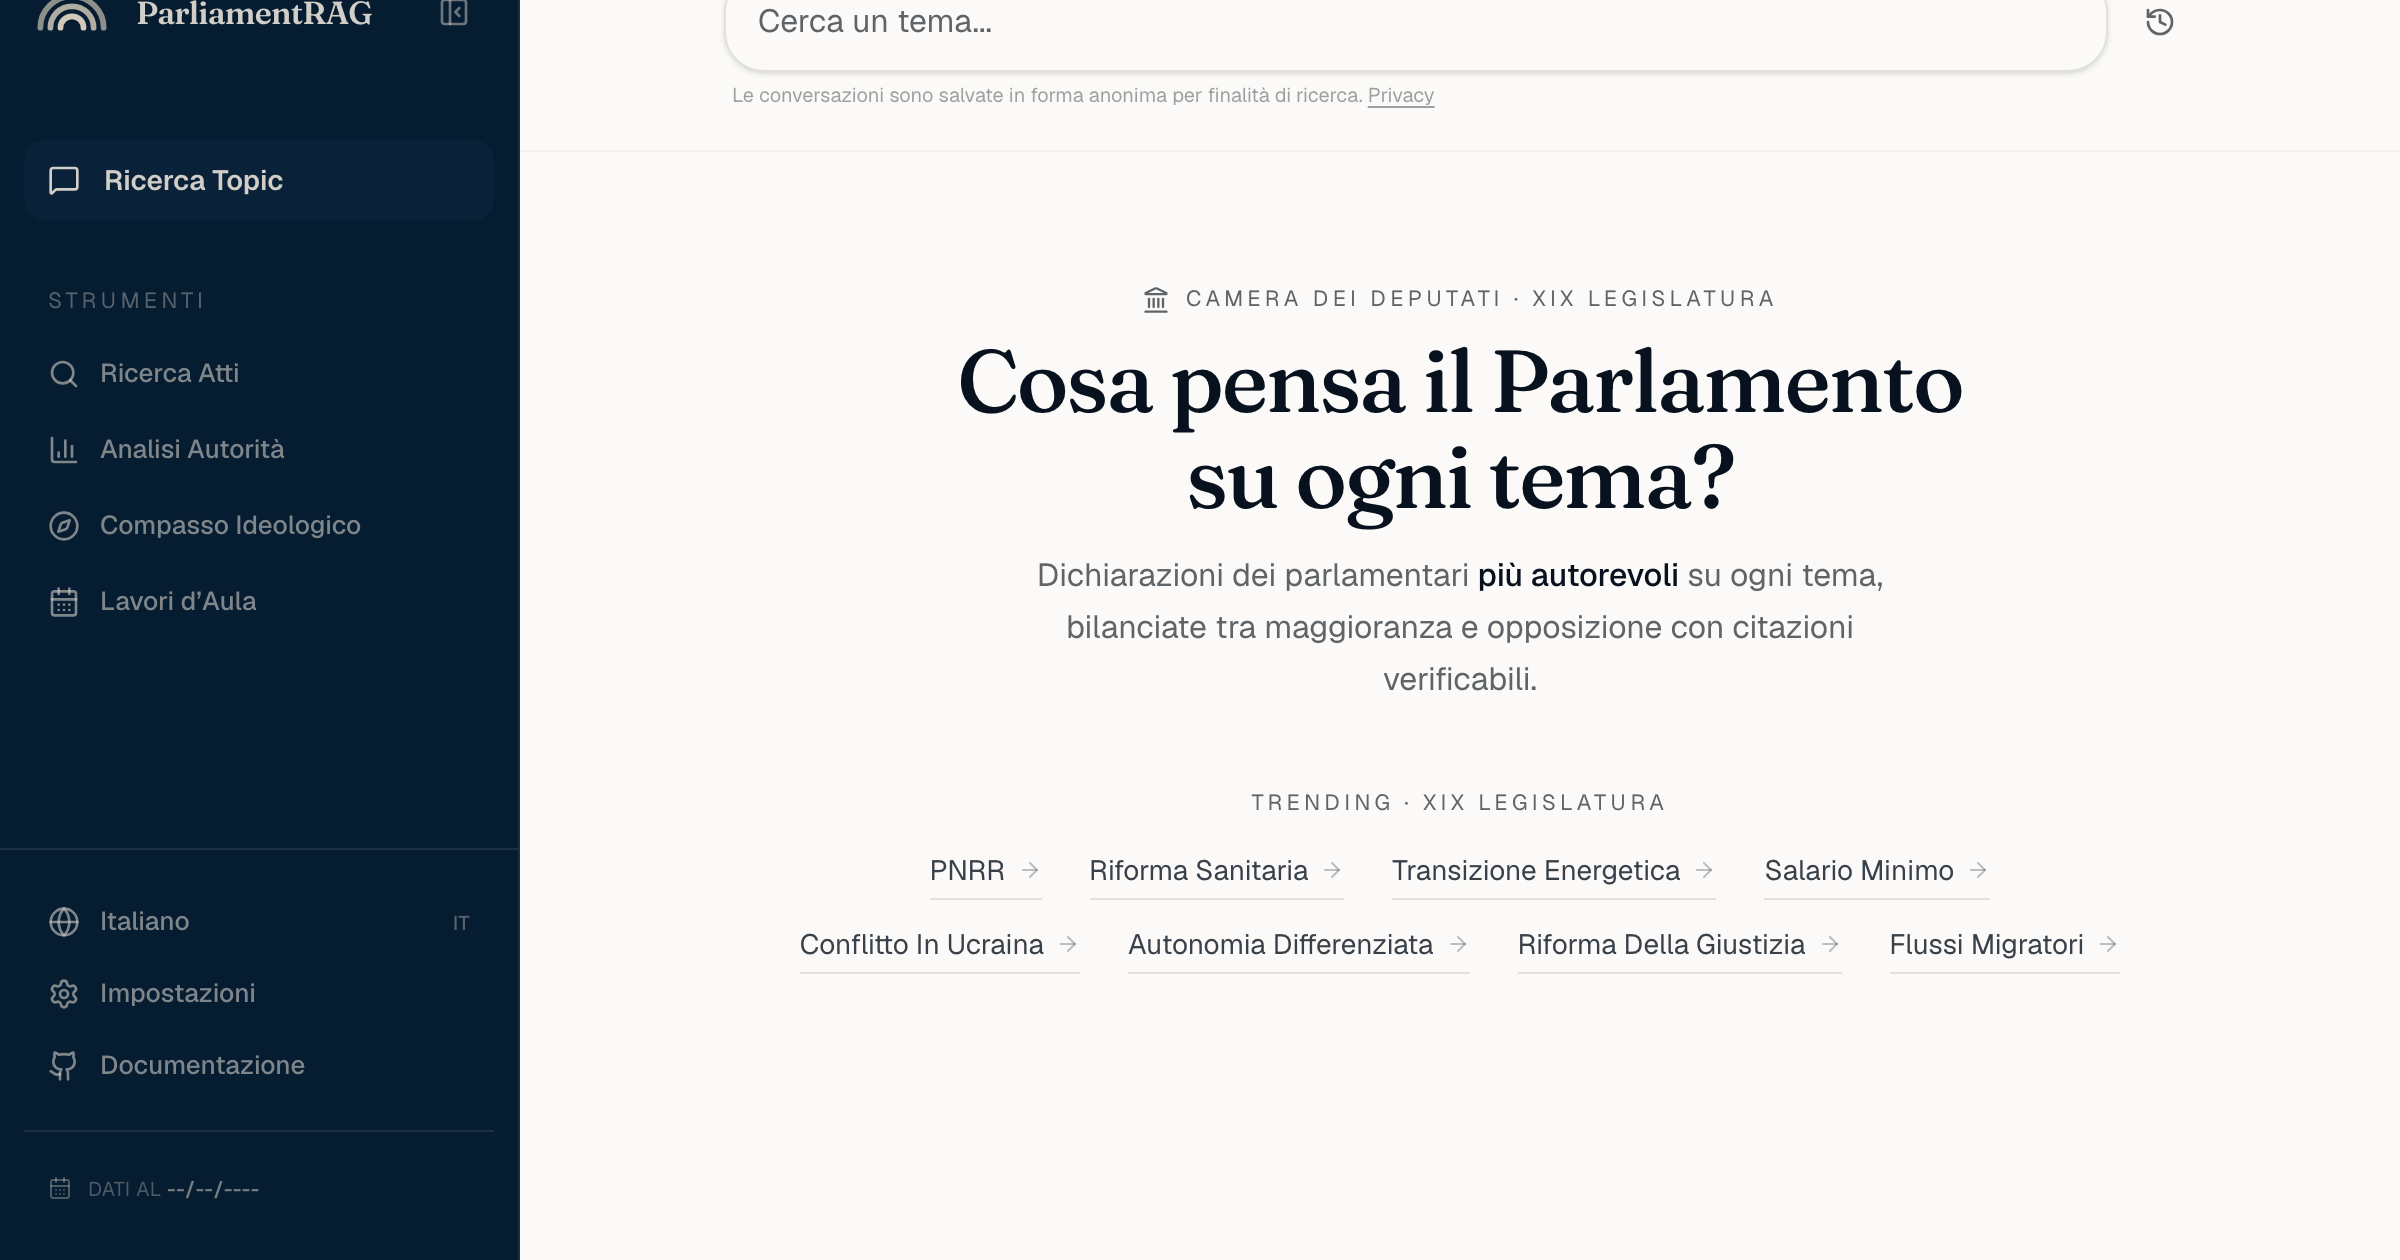
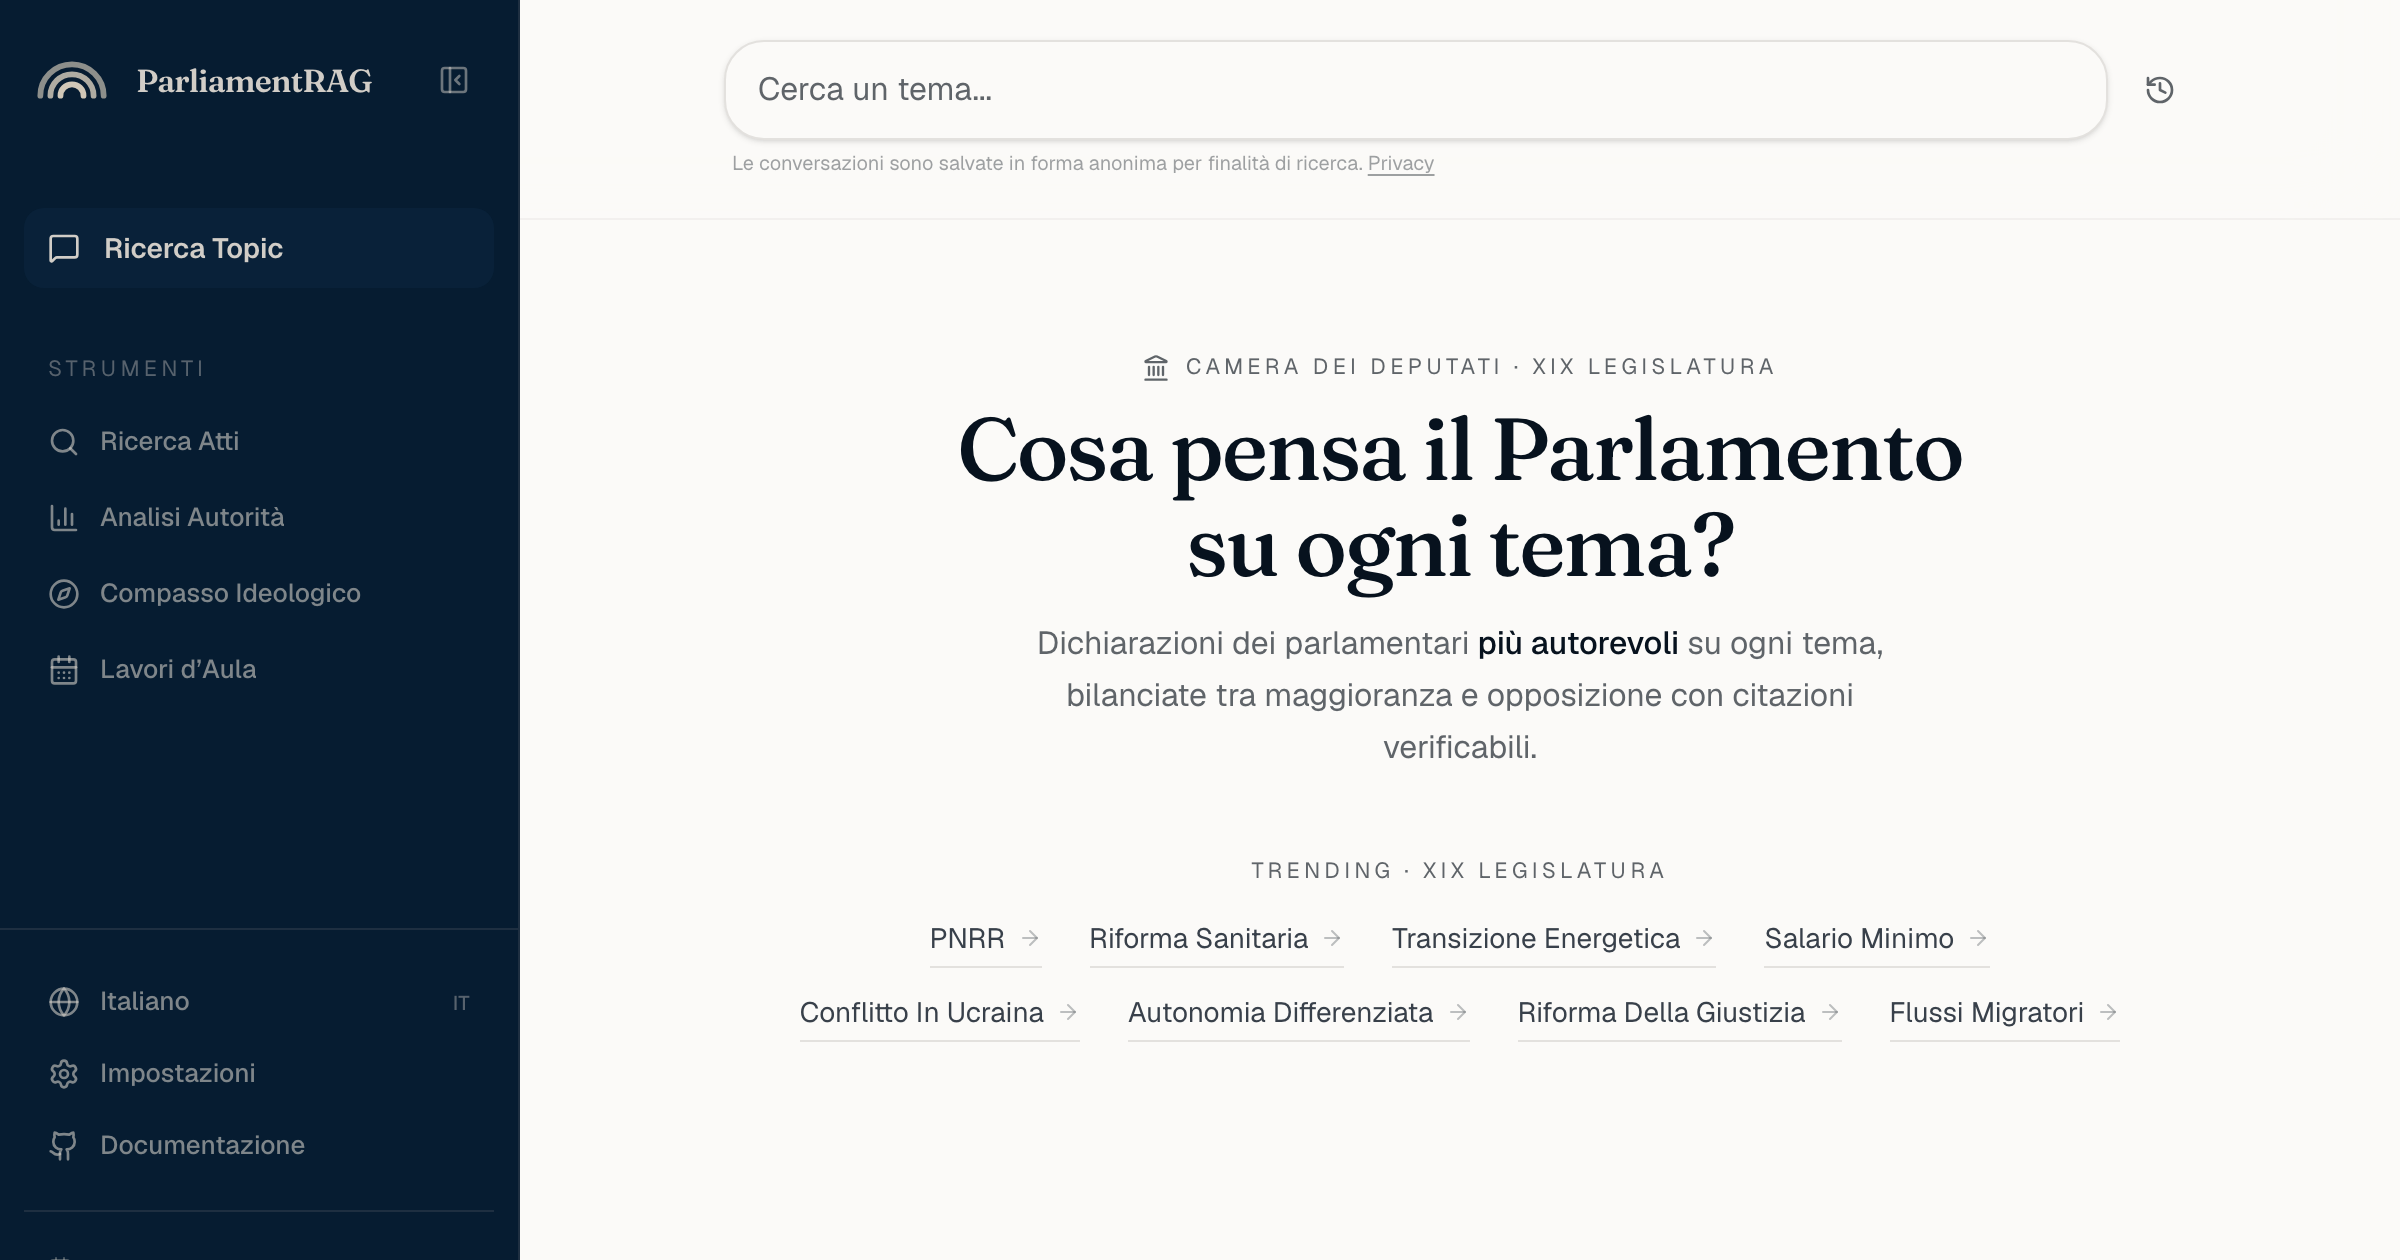
fix(seo+data): crop OG solo sulla landing; data Zenodo su /data
OG: il crop della barra data valeva solo per la landing (unica con
'DATI AGGIORNATI AL ...'); su /home e /data tagliava l'header. Ora crop
per-route (34px solo /), e attesa networkidle così il grafo su /data
viene catturato.

/data: accanto al DOI Zenodo ora c'è 'aggiornato al 26 luglio 2026',
costante ZENODO_UPDATED riscritta da build/zenodo_update.py alla
pubblicazione (tiene il passo con l'archivio, non con make update-data).

diff --git a/frontend/src/app/data/page.tsx b/frontend/src/app/data/page.tsx
@@ -21,6 +21,10 @@ const fraunces = Fraunces({
    The paper cites the version DOI (…21560332) for reproducibility. */
 const ZENODO_DOI = "10.5281/zenodo.21560331";
 const ZENODO_URL = `https://doi.org/${ZENODO_DOI}`;
+// Date the dataset was last published to Zenodo. Rewritten by
+// build/zenodo_update.py on a successful publish, NOT by make update-data:
+// the archive is a frozen snapshot and lags the live graph on purpose.
+const ZENODO_UPDATED = "2026-07-26";
 
 /* ── Graph numbers — live from /api/data/stats, static fallback ── */
 const STATS = [
@@ -460,7 +464,14 @@ export default function DataPage() {
             >
               Zenodo · DOI {ZENODO_DOI}
               <ArrowUpRight className="h-3 w-3 self-center" />
-            </a>
+            </a>{" · "}
+            {t("updatedAt", {
+              date: new Intl.DateTimeFormat(locale, {
+                day: "numeric",
+                month: "long",
+                year: "numeric",
+              }).format(new Date(`${ZENODO_UPDATED}T12:00:00`)),
+            })}
           </p>
         </div>
       </section>

diff --git a/build/gen_og_images.py b/build/gen_og_images.py
@@ -17,18 +17,20 @@ from PIL import Image
 from playwright.sync_api import sync_playwright
 
 W, H = 1200, 630          # OG canonical box
-BAR = 34                  # height of the top "DATI AGGIORNATI AL ..." strip (1x)
 SCALE = 2                 # render at 2x for retina crispness
+MAX_BAR = 40              # tallest top crop, so the capture viewport fits any page
 BASE = "https://www.parliamentrag.it"
 ROOT = pathlib.Path(__file__).resolve().parent.parent / "frontend" / "src" / "app"
 UA = ("Mozilla/5.0 (Macintosh; Intel Mac OS X 10_15_7) AppleWebKit/537.36 "
       "(KHTML, like Gecko) Chrome/126.0.0.0 Safari/537.36")
 
-# route path on the site -> opengraph-image.png destination
+# route -> (destination, top crop in px at 1x). Only the landing carries the
+# "DATI AGGIORNATI AL ..." strip, so only it is cropped. /home and /data lead
+# with their own header, which must stay intact (crop 0).
 PAGES = {
-    "/": ROOT / "opengraph-image.png",
-    "/home": ROOT / "home" / "opengraph-image.png",
-    "/data": ROOT / "data" / "opengraph-image.png",
+    "/":     (ROOT / "opengraph-image.png", 34),
+    "/home": (ROOT / "home" / "opengraph-image.png", 0),
+    "/data": (ROOT / "data" / "opengraph-image.png", 0),
 }
 
 
@@ -40,11 +42,11 @@ def main() -> None:
             "--disable-blink-features=AutomationControlled",
         ])
         ctx = browser.new_context(
-            viewport={"width": W, "height": H + BAR},
+            viewport={"width": W, "height": H + MAX_BAR},
             device_scale_factor=SCALE, user_agent=UA, ignore_https_errors=True,
         )
         page = ctx.new_page()
-        for route, out in PAGES.items():
+        for route, (out, bar) in PAGES.items():
             for attempt in range(3):
                 try:
                     page.goto(BASE + route, wait_until="commit", timeout=45000)
@@ -52,9 +54,15 @@ def main() -> None:
                 except Exception as e:  # transient CDN reset
                     print(f"  retry {route}: {str(e)[:60]}")
                     page.wait_for_timeout(1500)
-            page.wait_for_timeout(6000)  # client render + topics settle/fallback
+            # wait for async fetches (graph-sample, stats, topics) to finish,
+            # then a short settle so the SVG graph is painted before capture
+            try:
+                page.wait_for_load_state("networkidle", timeout=15000)
+            except Exception:
+                pass
+            page.wait_for_timeout(3000)
             img = Image.open(io.BytesIO(page.screenshot()))
-            top = BAR * SCALE
+            top = bar * SCALE
             img = img.crop((0, top, W * SCALE, top + H * SCALE))
             out.parent.mkdir(parents=True, exist_ok=True)
             img.save(out)

diff --git a/build/zenodo_update.py b/build/zenodo_update.py
@@ -36,6 +36,7 @@ Usage:
 """
 import argparse
 import os
+import re
 import sys
 from datetime import date
 from pathlib import Path
@@ -121,14 +122,37 @@ def main():
         print(f"    done ({r.json()['size'] / 1e6:,.0f} MB on Zenodo)")
 
     # 4. Stamp today's date on the new version.
+    today = date.today().isoformat()
     meta = draft["metadata"]
-    meta["publication_date"] = date.today().isoformat()
+    meta["publication_date"] = today
     meta.pop("doi", None)  # the draft gets its own DOI on publish
     r = requests.put(draft["links"]["self"], params=auth, json={"metadata": meta})
     r.raise_for_status()
 
-    # 5. Never publish programmatically: a published DOI cannot be undone.
+    # 5. Reflect the archive date on the /data page (the "aggiornato al ..."
+    #    next to the Zenodo DOI). Kept in the frontend, not in the live graph,
+    #    so it tracks the Zenodo publish and not make update-data.
+    _stamp_data_page(today)
+
+    # 6. Never publish programmatically: a published DOI cannot be undone.
     print(f"\nDraft ready — review and press Publish here:\n  {draft['links']['html']}")
+
+
+def _stamp_data_page(iso_date: str) -> None:
+    page = REPO_ROOT / "frontend" / "src" / "app" / "data" / "page.tsx"
+    try:
+        text = page.read_text(encoding="utf-8")
+        new, n = re.subn(
+            r'const ZENODO_UPDATED = "\d{4}-\d{2}-\d{2}";',
+            f'const ZENODO_UPDATED = "{iso_date}";', text,
+        )
+        if n == 1:
+            page.write_text(new, encoding="utf-8")
+            print(f"Stamped ZENODO_UPDATED = {iso_date} in data/page.tsx (commit + deploy the frontend).")
+        else:
+            print(f"WARNING: ZENODO_UPDATED constant not found in {page} — update it by hand.")
+    except OSError as e:
+        print(f"WARNING: could not stamp data/page.tsx: {e}")
 
 
 if __name__ == "__main__":
